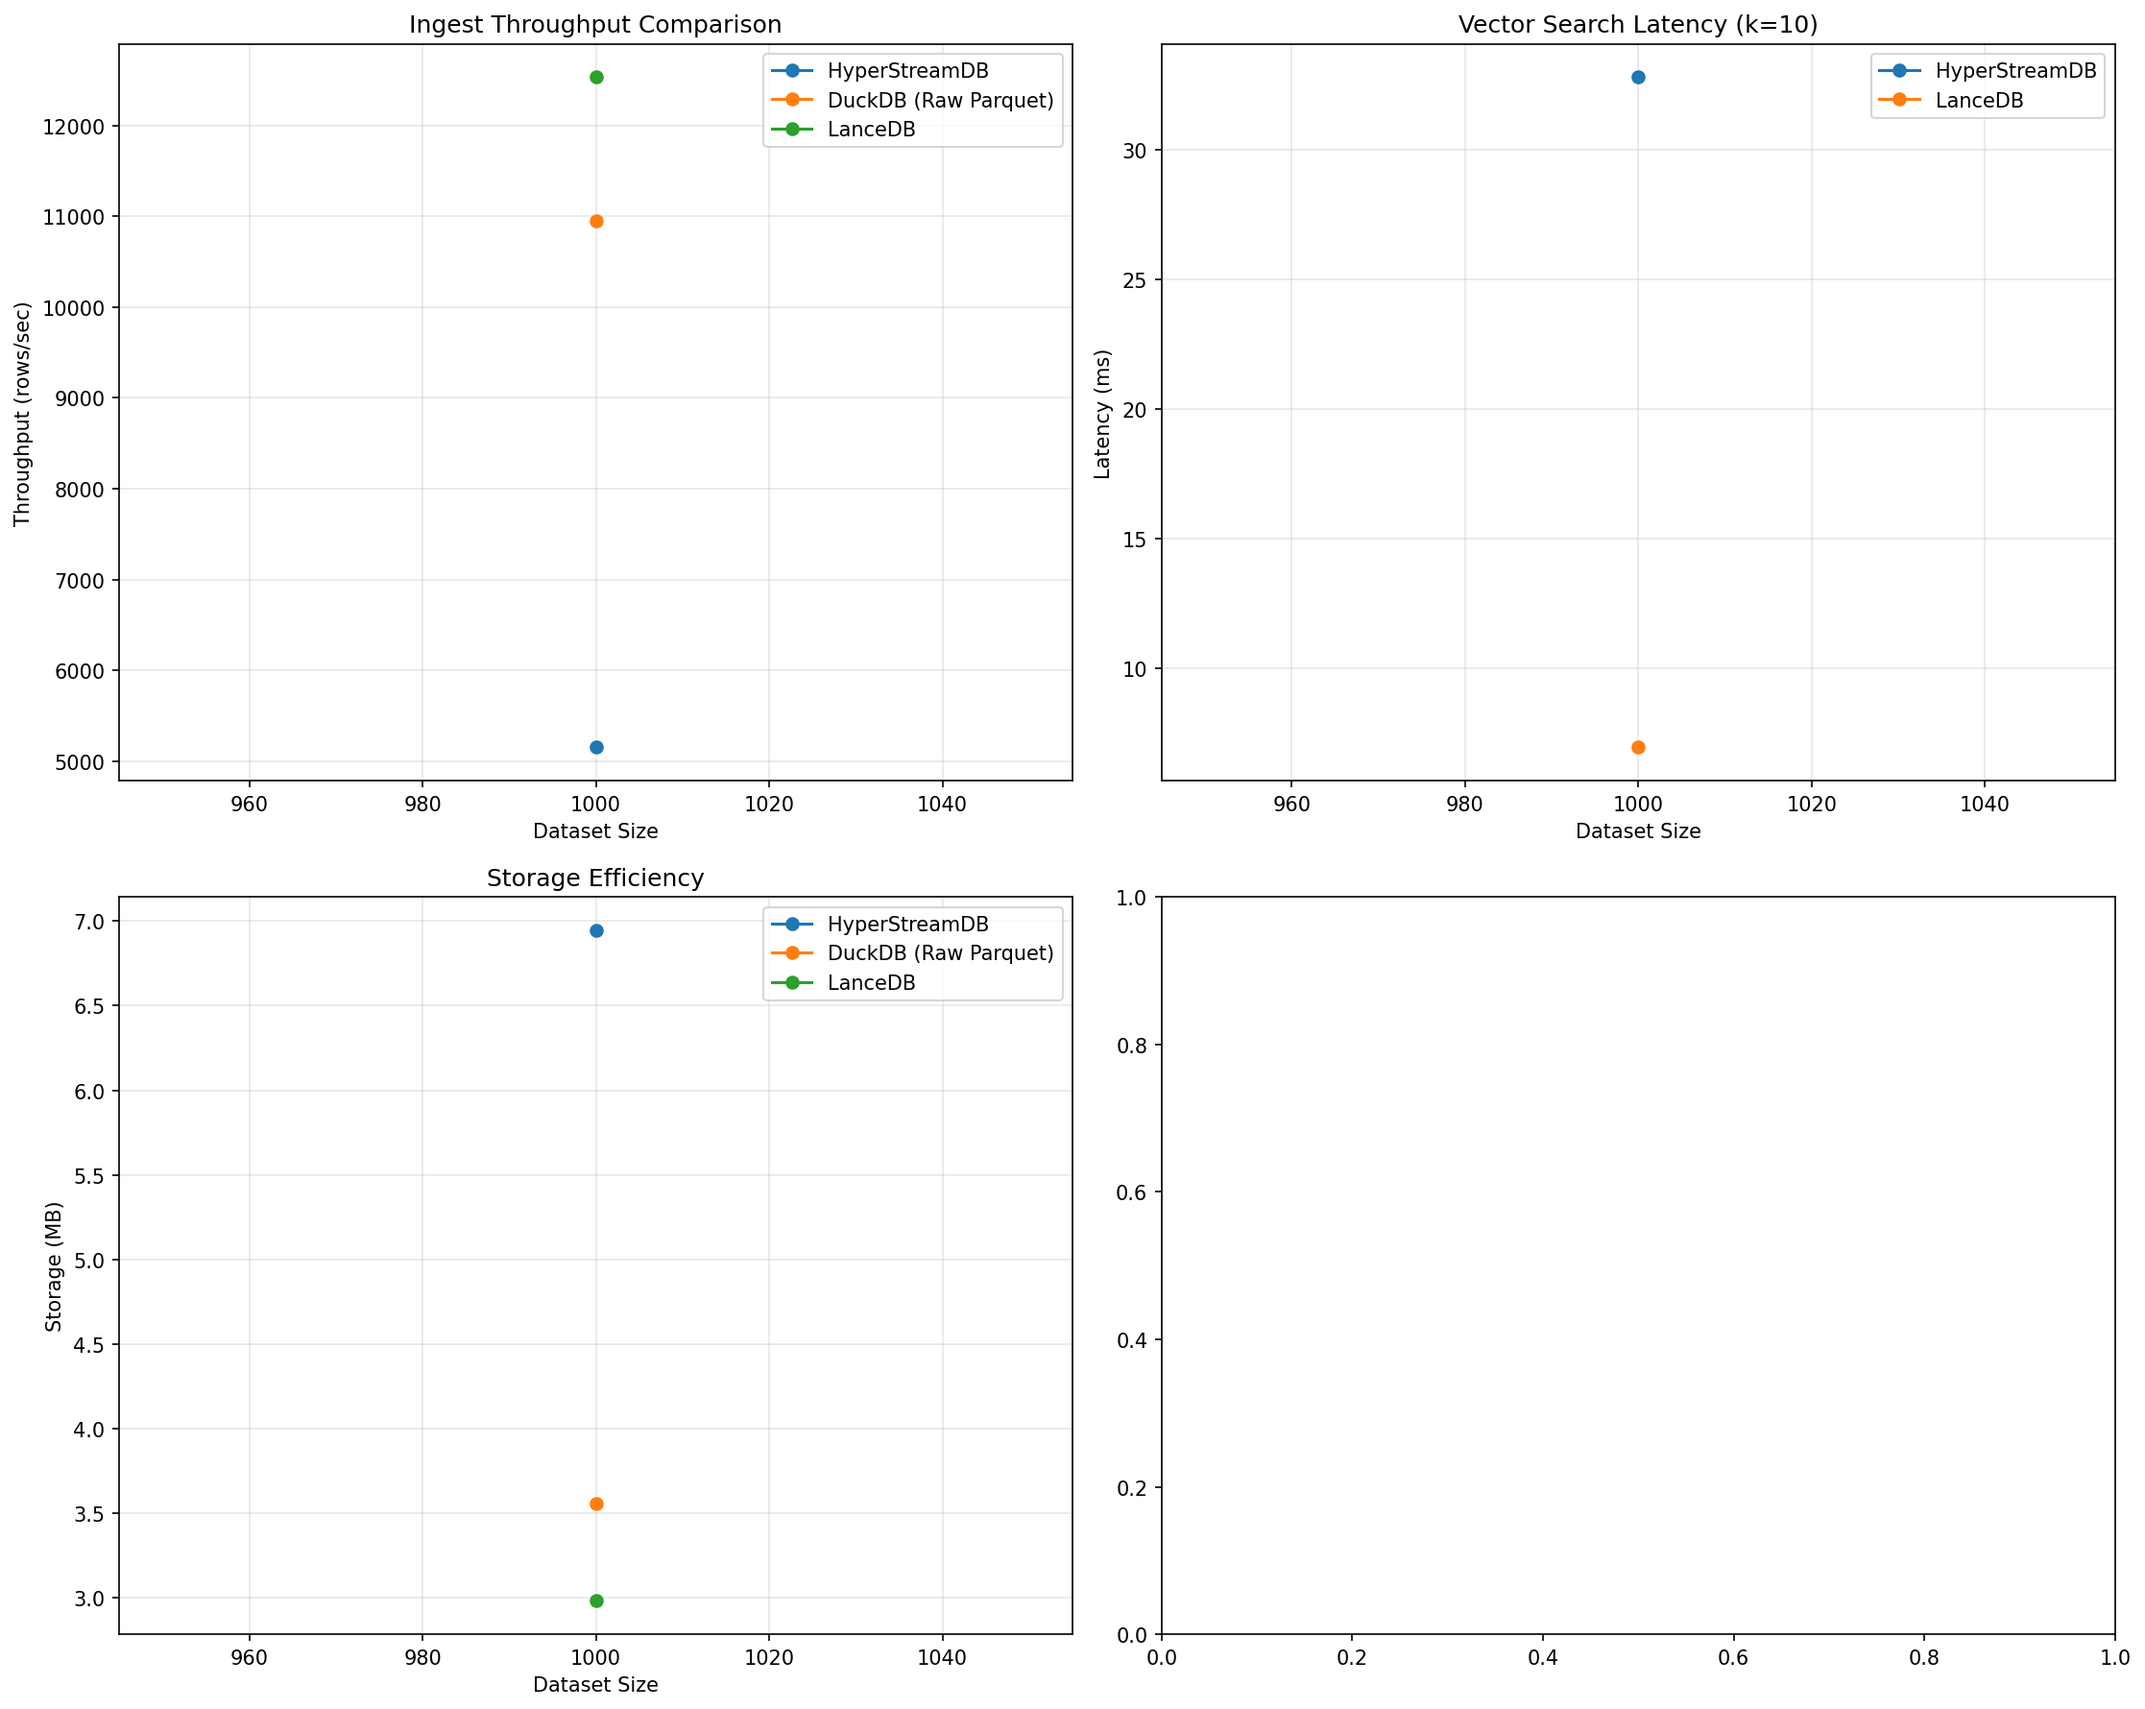
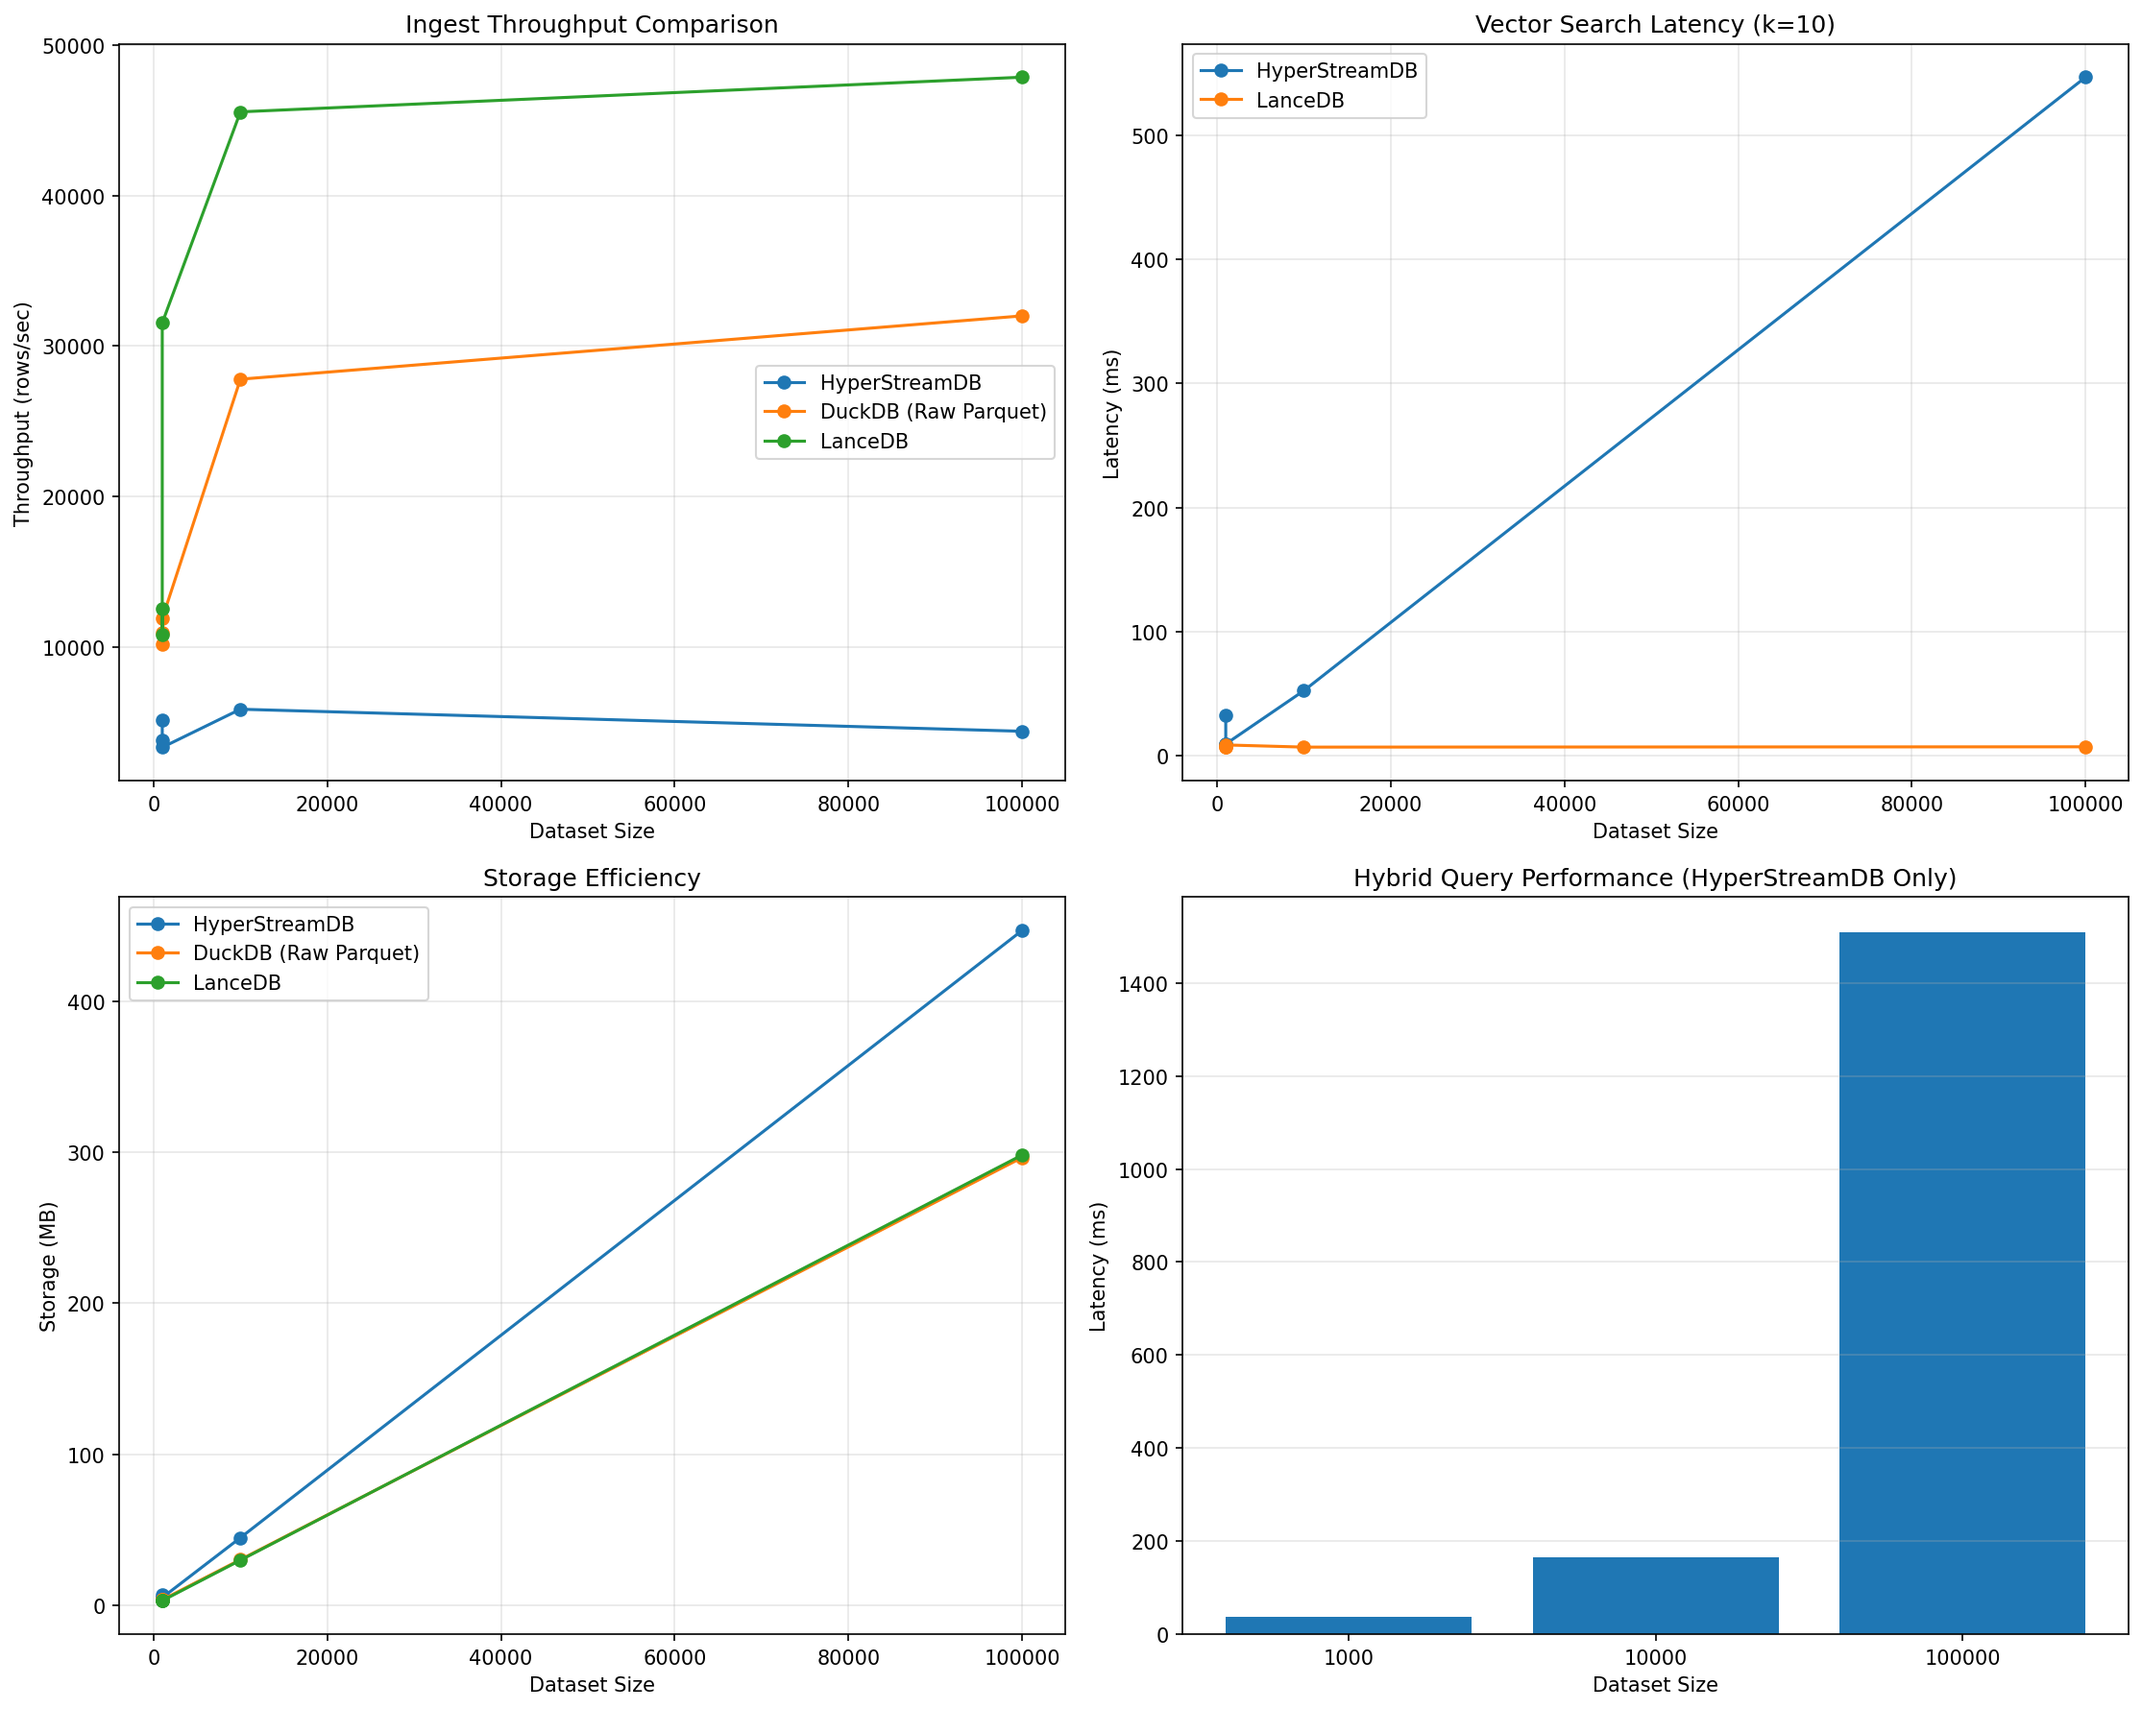
Fix hybrid query SQL planning error and update benchmark suite
Update sanitize_sql in python/helpers.rs to map dist_l2 vector syntax to native ARRAY[] format instead of invalid l2_distance. Add pyiceberg to competitive benchmarks requirements. Includes updated benchmark results after fixing the hybrid query execution.

diff --git a/src/python/helpers.rs b/src/python/helpers.rs
@@ -38,7 +38,7 @@ pub fn sanitize_sql(query: &str) -> PyResult<String> {
         ));
     }
 
-    Ok(SQL_REGEX.replace_all(query, "l2_distance($1, $2)").to_string())
+    Ok(SQL_REGEX.replace_all(query, "dist_l2($1, ARRAY[$2])").to_string())
 }
 
 /// Module-level global Tokio runtime for all Python-bound operations.
